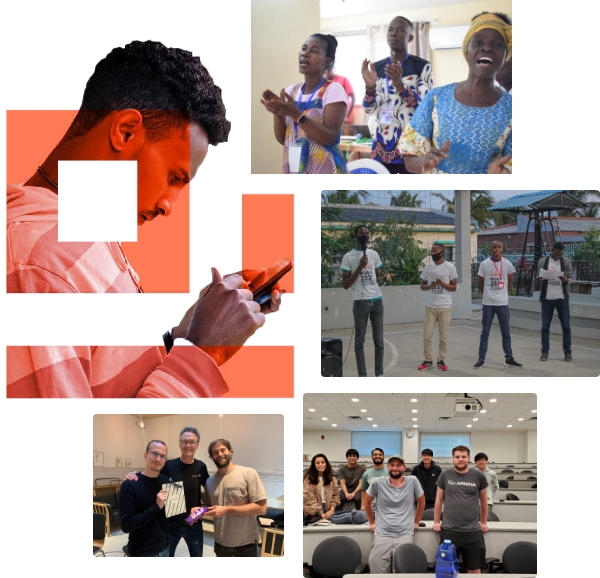
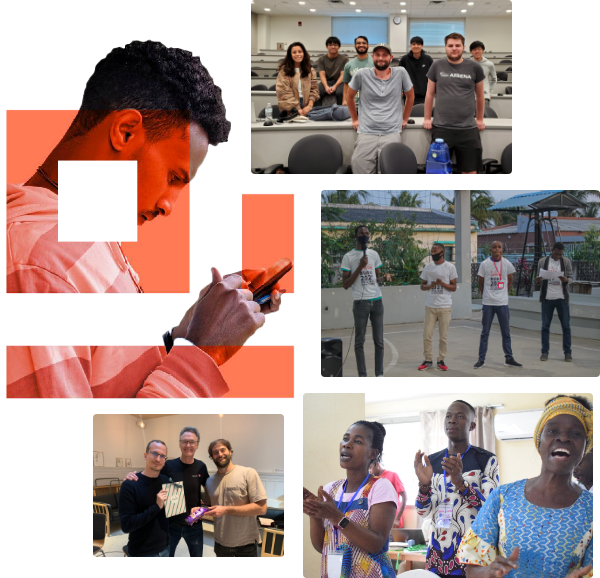
feat: Content for 2021 page

Changed region(s): [[0.48, 0.654, 0.99, 1.0], [0.42, 0.0, 0.87, 0.3114]]

diff --git a/resources/scss/templates/2021/_2021.scss b/resources/scss/templates/2021/_2021.scss
@@ -1,9 +1,9 @@
 .section-2021 {
 
 	&-one {
-
+    min-height: 125vh;
 		@include mq(tablet) {
-
+      min-height: 75vh;
 			.column:first-child {
 
 				> * {
@@ -24,20 +24,6 @@
 		}
 
 		&-graphic {
-			// max-width: 124vw;
-			// margin-left: -12vw;
-
-			// @include mq(tablet) {
-			// 	max-width: 58vw;
-			// 	margin-right: -10vw;
-			// 	margin-left: 0;
-			// }
-
-			// @include mq(desktop) {
-			// 	max-width: 61.1vw;
-			// 	margin-left: -12vw;
-			// }
-
 			&--container {
 				position: absolute;
 				left: -15%;
@@ -64,7 +50,6 @@
 				img:nth-child(1) {
 					top: 4.016%;
 					left: 19.709%;
-					// width: 30%;
 				}
 			}
 
@@ -129,7 +114,7 @@
     background: url(../img/2021/bg-church.png) center no-repeat;
     background-size: cover;
     background-attachment: fixed;
-    height: 100vh;
+    height: 75vh;
     width: 100vw;
     position: relative;
     padding: 0;
@@ -155,6 +140,16 @@
       display: grid;
       grid-template-columns: repeat( auto-fit, minmax(300px, 1fr) );
       grid-gap: 40px 20px; 
+      @include mq(tablet) {
+        display: flex;
+        flex-flow: row wrap;
+        justify-content: space-around;
+        width: 100%;
+        max-width: 925px;
+        margin: 0 auto 48px auto;
+        row-gap: 40px;
+        column-gap: 40px;
+      }
       .media-text--content {
         margin: 0 auto;
       }
@@ -162,7 +157,7 @@
 	}
 
 	&-three {
-	  margin-top: -10vw;
+	  margin-top: -25vw;
     position: relative;
     .video-grid {
       display: grid;
@@ -244,6 +239,14 @@
     .card-story {
       img {
         filter: brightness(1.15) saturate(1.15);
+      }
+    }
+  }
+  &-hack-gallery {
+    .hack-slick {
+      img {
+        height: 640px;
+        object-fit: cover;
       }
     }
   }

diff --git a/templates/template-2021.php b/templates/template-2021.php
@@ -21,7 +21,7 @@ if ( have_posts() ) :
 						<div class="column one-half">
 							<div class="media-text">
 								<div class="media-text--img">
-									<img src="<?php echo esc_url( get_theme_file_uri( 'assets/img/impact/hack-impact-Countries.svg' ) ); ?>" width="67" />
+									<img src="<?php echo esc_url( get_theme_file_uri( 'assets/img/impact/hack-impact-Countries.svg' ) ); ?>" width="47" />
 								</div>
 								<div class="media-text--content">
 									<span class="primary-color"><?php echo esc_html( '6th' ); ?></span>
@@ -31,14 +31,17 @@ if ( have_posts() ) :
 							<h1>
 								<?php
 								/* translators: %s #HACK name tag */
-								echo sprintf( esc_html__( 'Thank You %s', 'hack' ), hack_name_tag() );
+								echo sprintf( esc_html__( 'What Happened at %s', 'hack' ), hack_name_tag() );
 								?>
 							</h1>
 							<p>
 								<?php esc_html_e( 'At #HACK participants from around the world in the tech, creative, and adjacent industries gather to solve problems facing their communities.', 'hack' ); ?>
 							</p>
 							<p>
-								<a href="#pdf-download" class="button"><?php esc_html_e( 'Download 2021 Report', 'hack' ); ?></a>
+								<?php esc_html_e( 'Since 2016, #HACK has been organized by Indigitous and partnering organizations and individuals.', 'hack' ); ?>
+							</p>
+							<p>
+								<a href="#pdf-download" class="button"><?php esc_html_e( '#HACK2021 Report', 'hack' ); ?></a>
 							</p>
 						</div>
 						<div class="column one-half">
@@ -118,41 +121,44 @@ if ( have_posts() ) :
   </div>
   
   <div class="section-2021-bg-church"></div>
-	
+
 	<!-- Video Grid -->
   <div class="section section-2021-three">
 		<div class="wrap" style="margin-bottom:64px">
 			<div class="row">
 				<div class="column five-sixths offset-1">
-					<iframe width="992" height="558" src="https://www.youtube.com/embed/SQvagv8Eegc" title="YouTube video player" frameborder="0" allow="accelerometer; autoplay; clipboard-write; encrypted-media; gyroscope; picture-in-picture" allowfullscreen></iframe>
+					<iframe width="992" height="558" src="https://www.youtube.com/embed/KB2scbAwcC4" title="YouTube video player" frameborder="0" allow="accelerometer; autoplay; clipboard-write; encrypted-media; gyroscope; picture-in-picture" allowfullscreen></iframe>
 				</div>
 			</div>
 		</div>
 		<div class="wrap" style="margin-bottom:64px">
 			<h3 class="text-center">
-				<?php esc_html_e( 'Global Participation of #HACK2020', 'hack' ); ?>
+				<?php esc_html_e( '#HACK2021 Around the World', 'hack' ); ?>
 			</h3>
-			<p class="intro-text text-center" style="margin: 0 auto;"><?php esc_html_e( 'The Indigitous hackathon is a unique opportunity to gather people with unique skill sets for the purpose of responding to the most pressing needs that impact our society.', 'hack' ); ?></p>
+			<p class="intro-text text-center" style="margin: 0 auto;"><?php esc_html_e( '#HACK looks different in each country and city that it is hosted. Check out these previous submitted by teams from around the world.', 'hack' ); ?></p>
 		</div>
 		<div class="wrap">
 			<div class="video-grid">
-				<a href="#" target="_blank" rel="noopener" class="video-grid-item">
-					<img src="https://static01.nyt.com/images/2021/09/14/science/07CAT-STRIPES/07CAT-STRIPES-superJumbo.jpg" alt="video" />
+				<a href="https://vimeo.com/641789775?embedded=true&source=vimeo_logo&owner=95672474" target="_blank" rel="noopener" class="video-grid-item">
+					<img src="<?php echo esc_url( get_theme_file_uri( 'assets/img/2021/video-1-vimeo-641789775.jpg' ) ); ?>" alt="video" />
 				</a>
-				<a href="#" target="_blank" rel="noopener" class="video-grid-item">
-					<img src="https://static01.nyt.com/images/2021/09/14/science/07CAT-STRIPES/07CAT-STRIPES-superJumbo.jpg" alt="video" />
+				<a href="https://www.youtube.com/watch?v=l763lx9fszA" target="_blank" rel="noopener" class="video-grid-item">
+					<img src="<?php echo esc_url( get_theme_file_uri( 'assets/img/2021/video-2-youtube-l763lx9fszA.jpg' ) ); ?>" alt="video" />
 				</a>
-				<a href="#" target="_blank" rel="noopener" class="video-grid-item">
-					<img src="https://static01.nyt.com/images/2021/09/14/science/07CAT-STRIPES/07CAT-STRIPES-superJumbo.jpg" alt="video" />
+				<a href="https://www.facebook.com/watch/?extid=NS-UNK-UNK-UNK-AN_GK0T-GK1C&v=407760157494698" target="_blank" rel="noopener" class="video-grid-item">
+				<img src="<?php echo esc_url( get_theme_file_uri( 'assets/img/2021/video-3-fb-407760157494698.jpg' ) ); ?>" alt="video" />
 				</a>
-				<a href="#" target="_blank" rel="noopener" class="video-grid-item">
-					<img src="https://static01.nyt.com/images/2021/09/14/science/07CAT-STRIPES/07CAT-STRIPES-superJumbo.jpg" alt="video" />
+				<a href="https://www.youtube.com/watch?v=uv0-9piHBQQ" target="_blank" rel="noopener" class="video-grid-item">
+				<img src="<?php echo esc_url( get_theme_file_uri( 'assets/img/2021/video-4-uv0-9piHBQQ.jpg' ) ); ?>" alt="video" />
 				</a>
-				<a href="#" target="_blank" rel="noopener" class="video-grid-item">
-					<img src="https://static01.nyt.com/images/2021/09/14/science/07CAT-STRIPES/07CAT-STRIPES-superJumbo.jpg" alt="video" />
+				<a href="https://www.facebook.com/indigitousph/videos/858654311399633" target="_blank" rel="noopener" class="video-grid-item">
+				<img src="<?php echo esc_url( get_theme_file_uri( 'assets/img/2021/video-5-fb-858654311399633.jpg' ) ); ?>" alt="video" />
 				</a>
-				<a href="#" target="_blank" rel="noopener" class="video-grid-item">
-					<img src="https://static01.nyt.com/images/2021/09/14/science/07CAT-STRIPES/07CAT-STRIPES-superJumbo.jpg" alt="video" />
+				<a href="https://drive.google.com/file/d/1ZDSu93k75zlvebXf9Xu7yB1rQL3SvjMl/view" target="_blank" rel="noopener" class="video-grid-item">
+				<img src="<?php echo esc_url( get_theme_file_uri( 'assets/img/2021/video-6-gd-1ZDSu93k75zlvebXf9Xu7yB1rQL3SvjMl.jpg' ) ); ?>" alt="video" />
+				</a>
+				<a href="https://drive.google.com/file/d/1ujXk4yMo4I_v9hH4F4LXNLLfFoxKVIyY/view" target="_blank" rel="noopener" class="video-grid-item">
+				<img src="<?php echo esc_url( get_theme_file_uri( 'assets/img/2021/video-7-gd-1ujXk4yMo4I_v9hH4F4LXNLLfFoxKVIyY.jpg' ) ); ?>" alt="video" />
 				</a>
 			</div>
 		</div>
@@ -165,9 +171,9 @@ if ( have_posts() ) :
 	<section>
 		<div class="wrap" style="margin-bottom:64px">
 			<h3 class="text-center">
-				<?php esc_html_e( 'Global Participation of #HACK2020', 'hack' ); ?>
+				<?php esc_html_e( '#HACK2021 Global Challenges', 'hack' ); ?>
 			</h3>
-			<p class="intro-text text-center" style="margin: 0 auto;"><?php esc_html_e( 'The Indigitous hackathon is a unique opportunity to gather people with unique skill sets for the purpose of responding to the most pressing needs that impact our society.', 'hack' ); ?></p>
+			<p class="intro-text text-center" style="margin: 0 auto;"><?php esc_html_e( 'Presented by our ministry partners, these 3 challenges were tackled by teams around the world.', 'hack' ); ?></p>
 		</div>
 	</section>
 
@@ -266,7 +272,6 @@ if ( have_posts() ) :
 				<li>● People’s Choice</li>
 			  </ul>
 							</div>
-			  <blockquote class="primary-color"><?php esc_html_e( 'We want to bring the gospel to those who need to hear.', 'hack' ); ?></blockquote>
 						</div>
 						<div class="column seven-twelfths offset-1">
 						<div class="judge-grid">
@@ -340,8 +345,7 @@ if ( have_posts() ) :
 	<!-- Stories -->
 	<div class="section section-2021-stories">
 		<div class="wrap" style="margin-bottom:64px"
-			  ><h3 class="text-center"><?php esc_html_e( 'Global Participation of #HACK2020', 'hack' ); ?></h3>
-		<p class="intro-text text-center" style="margin: 0 auto;"><?php esc_html_e( 'The Indigitous hackathon is a unique opportunity to gather people with unique skill sets for the purpose of responding to the most pressing needs that impact our society.', 'hack' ); ?></p>
+			  ><h3 class="text-center" style="font-size: 4rem;"><?php esc_html_e( 'Stories from #HACK2021', 'hack' ); ?></h3>
 		</div>
 		<div class="wrap">
 			<div class="site-content">
@@ -402,29 +406,31 @@ if ( have_posts() ) :
 	</div>
 
 	<!-- GALLERY -->
-	<div class="section">
+	<div class="section section-20201-hack-gallery">
+		<div class="wrap" style="margin-bottom:64px"
+			  ><h3 class="text-center" style="font-size: 4rem;"><?php esc_html_e( '#HACK2021 Gallery', 'hack' ); ?></h3>
+		</div>
 		<div class="wrap">
 			<div class="hack-slick" data-slick='{"dots": true, "arrows": true}'>
-				<img src="https://static01.nyt.com/images/2021/09/14/science/07CAT-STRIPES/07CAT-STRIPES-superJumbo.jpg" alt="video" />
-				<img src="https://static01.nyt.com/images/2021/09/14/science/07CAT-STRIPES/07CAT-STRIPES-superJumbo.jpg" alt="video" />
-				<img src="https://static01.nyt.com/images/2021/09/14/science/07CAT-STRIPES/07CAT-STRIPES-superJumbo.jpg" alt="video" />
-				<img src="https://static01.nyt.com/images/2021/09/14/science/07CAT-STRIPES/07CAT-STRIPES-superJumbo.jpg" alt="video" />
+				<img src="<?php echo esc_url( get_theme_file_uri( 'assets/img/2021/gallery-1.jpg' ) ); ?>" alt="gallery" />
+				<img src="<?php echo esc_url( get_theme_file_uri( 'assets/img/2021/gallery-2.jpg' ) ); ?>" alt="gallery" />
+				<img src="<?php echo esc_url( get_theme_file_uri( 'assets/img/2021/gallery-3.jpg' ) ); ?>" alt="gallery" />
+				<img src="<?php echo esc_url( get_theme_file_uri( 'assets/img/2021/gallery-4.jpg' ) ); ?>" alt="gallery" />
+				<img src="<?php echo esc_url( get_theme_file_uri( 'assets/img/2021/gallery-5.jpg' ) ); ?>" alt="gallery" />
+				<img src="<?php echo esc_url( get_theme_file_uri( 'assets/img/2021/gallery-6.jpg' ) ); ?>" alt="gallery" />
+				<img src="<?php echo esc_url( get_theme_file_uri( 'assets/img/2021/gallery-7.jpg' ) ); ?>" alt="gallery" />
+				<img src="<?php echo esc_url( get_theme_file_uri( 'assets/img/2021/gallery-8.jpg' ) ); ?>" alt="gallery" />
+				<img src="<?php echo esc_url( get_theme_file_uri( 'assets/img/2021/gallery-9.jpg' ) ); ?>" alt="gallery" />
+				<img src="<?php echo esc_url( get_theme_file_uri( 'assets/img/2021/gallery-10.jpg' ) ); ?>" alt="gallery" />
+				<img src="<?php echo esc_url( get_theme_file_uri( 'assets/img/2021/gallery-11.jpg' ) ); ?>" alt="gallery" />
+				<img src="<?php echo esc_url( get_theme_file_uri( 'assets/img/2021/gallery-12.jpg' ) ); ?>" alt="gallery" />
+				<img src="<?php echo esc_url( get_theme_file_uri( 'assets/img/2021/gallery-13.jpg' ) ); ?>" alt="gallery" />
+				<img src="<?php echo esc_url( get_theme_file_uri( 'assets/img/2021/gallery-14.jpg' ) ); ?>" alt="gallery" />
+				<img src="<?php echo esc_url( get_theme_file_uri( 'assets/img/2021/gallery-15.jpg' ) ); ?>" alt="gallery" />
+				<img src="<?php echo esc_url( get_theme_file_uri( 'assets/img/2021/gallery-16.jpg' ) ); ?>" alt="gallery" />
 			</div>
 		</div>
 	</div>
-
-	<div class="section">
-		<div class="wrap" style="margin-bottom:64px">
-				<div class="row">
-					<div class="column five-sixths offset-1">
-			<iframe width="992" height="558" src="https://www.youtube.com/embed/SQvagv8Eegc" title="YouTube video player" frameborder="0" allow="accelerometer; autoplay; clipboard-write; encrypted-media; gyroscope; picture-in-picture" allowfullscreen></iframe>
-			</div>
-		</div>
-		</div>
-		<div class="wrap"><h3 class="text-center"><?php esc_html_e( 'Global Participation of #HACK2020', 'hack' ); ?></h3>
-		</div>
-	</div>
-
 			
 	<section class="section">
 		<?php get_template_part( 'template-parts/partners' ); ?>
@@ -434,19 +440,19 @@ if ( have_posts() ) :
 	<div class="wrap">
 		<div class="row">
 			<div class="column one-third">
-				<img src="<?php echo esc_url( get_theme_file_uri( 'assets/img/about/hack-about-section-11.jpg' ) ); ?>" style="border-radius: 4px; object-fit:cover;"/>
+				<img src="<?php echo esc_url( get_theme_file_uri( 'assets/img/2021/dl-image.png' ) ); ?>" style="border-radius: 4px; object-fit:cover;"/>
 			</div>
 			<div class="column two-thirds">
 				<h5 class="divider"><?php esc_html_e( 'Downloads', 'hack' ); ?></h5>
 				<h2>
 					<?php
 					/* translators: %s #HACK */
-					echo sprintf( esc_html__( 'Want to know more about %s?', 'hack' ), '<span>#HACK</span>' );
+					echo sprintf( esc_html__( '%s2021 Report', 'hack' ), '<span>#HACK</span>' );
 					?>
 				</h2>
 				<div class="row">
 					<div class="column seven-twelfths">
-						<p><?php esc_html_e( 'Check out our resources or download the report from #HACK2020 for more information. ', 'hack' ); ?></p>
+						<p><?php esc_html_e( 'See more details about what happened at #HACK2021.', 'hack' ); ?></p>
 						<br>
 						<p>
 							<a href="https://hack.indigitous.org/wp-content/uploads/2021/12/HACK2021_Report.pdf" target="_blank"><i class="fas fa-download"></i> <?php esc_html_e( '#HACK2021 Report', 'hack' ); ?></a>

diff --git a/archive-story.php b/archive-story.php
@@ -7,7 +7,7 @@
 
 get_header();
 
-$hack_from_year = gmdate( 'Y' );
+$hack_from_year = gmdate( 'Y' ) - 1;
 ?>
 
 <div class="section section-stories-hero">
@@ -22,7 +22,7 @@ $hack_from_year = gmdate( 'Y' );
 			<div class="column one-fourth">
 				<?php
 				// phpcs:ignore
-				for ( $i = gmdate( 'Y' ); $i >= 2016; $i-- ) {
+				for ( $i = gmdate( 'Y' ) - 1; $i >= 2016; $i-- ) {
 					?>
 
 					<div class="section-stories-posts-toggle toggle-trigger" data-section-id="<?php echo esc_attr( $i ); ?>">
